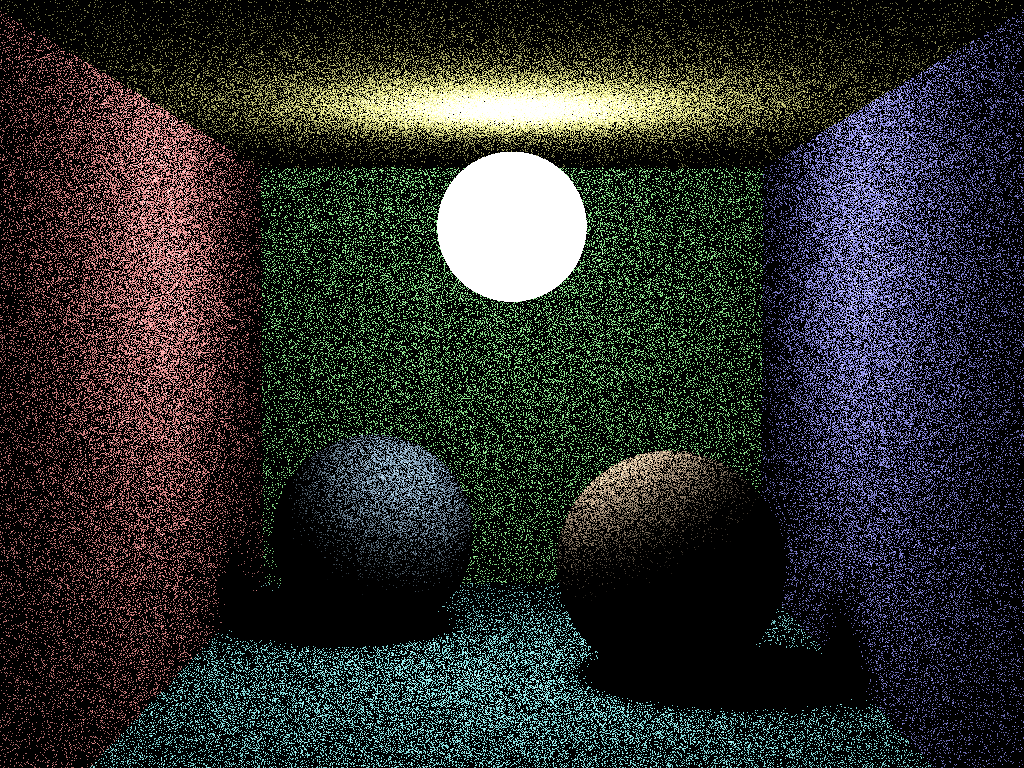
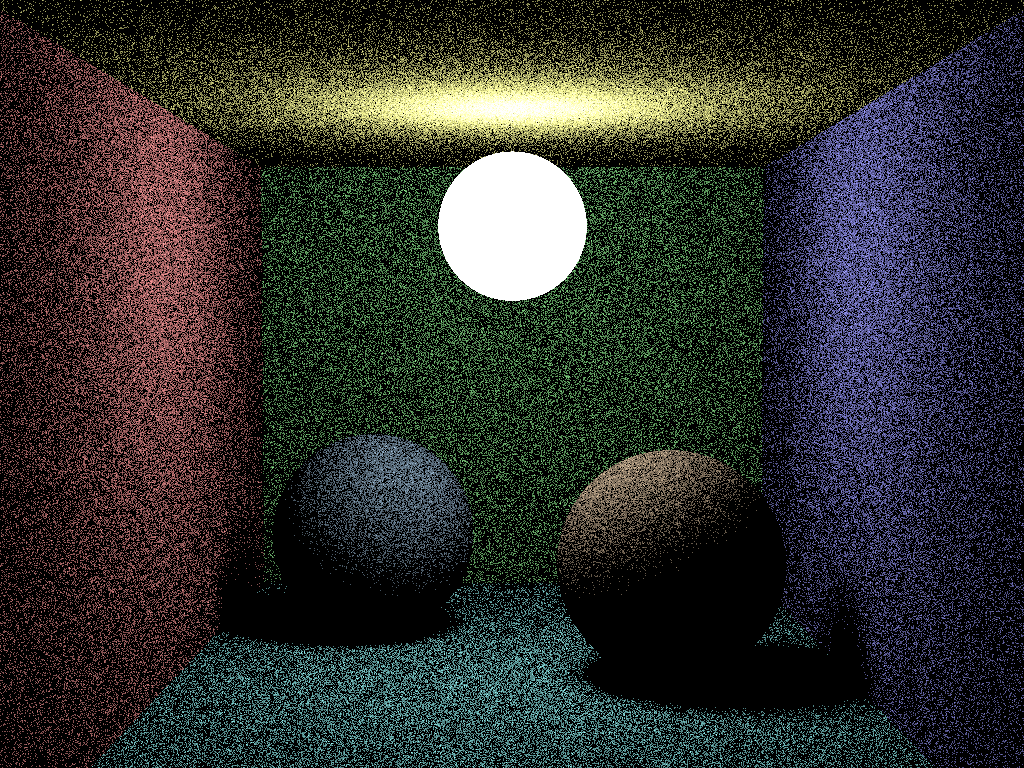
tarea 2 aceptada

diff --git a/doc/tarea2/rt.cpp b/doc/tarea2/rt.cpp
@@ -97,19 +97,18 @@ Color shade(const Ray &r, int depth, int mode)
     {
     case 1:
         target = random_in_hemisphere();
-        p = 0.5 / pi;
+        p = 1.0 / (2.0*pi);
         break;
 
     case 2:
         target = random_cosine_hemisphere(tetha);
-        // double cos_theta = newRay.d.dot(n);
         p = (1.0 / pi) * cos(tetha);
         break;
 
     // case:0
     default:
         target = random_in_sphere();
-        p = 1.0 / (4.0 * pi);
+        p = 1.0/(4.0 * pi);
         break;
     }
 
@@ -127,11 +126,11 @@ Color shade(const Ray &r, int depth, int mode)
 
     double cos_theta = newRay.d.dot(n);
 
-    Color BRDF = obj.c * (1 / pi);
+    Color BRDF = obj.c * (1.0 / pi);
     Color emittance = obj.l;
 
     Color incomingColor = shade(newRay, depth - 1, mode);
-    Color colorValue = emittance + (incomingColor.mult(BRDF) * cos_theta) *(1.0/p);
+    Color colorValue = emittance + (incomingColor.mult(BRDF) * cos_theta) * (1.0/p);
     return colorValue;
 }
 
@@ -142,9 +141,9 @@ int main(int argc, char *argv[])
     // Numero de muestras por pixel.
     const int pixel_samples = 32;
     // Numero de rebotes.
-    const int depth = 3;
+    const int depth = 2;
     // Modo de muestreo. 0 para esfera unitaria, 1 para esfera hemisferica, 2 para coseno hemisferica
-    const int mode = 2;
+    const int mode = 1;
 
     // fija la posicion de la camara y la dirección en que mira
     Ray camera(Point(0, 11.2, 214), Vector(0, -0.042612, -1).normalize());
@@ -166,7 +165,7 @@ int main(int argc, char *argv[])
         {
             // recorre todos los pixeles de la imagen
             fprintf(stderr, "\r%5.2f%%", 100. * y / (h - 1));
-
+            // ciclo de muestreo
             for (int x = 0; x < w; x++)
             {
                 int idx = (h - y - 1) * w + x; // index en 1D para una imagen 2D x,y son invertidos
@@ -176,9 +175,10 @@ int main(int argc, char *argv[])
                 for (int i = 0; i < pixel_samples; i++)
                 {
                     // computar el color del pixel para el punto que intersectó el rayo desde la camara
-                    pixelValue = pixelValue + shade(Ray(camera.o, cameraRayDir.normalize()),depth,mode);
+                    pixelValue = pixelValue + shade(Ray(camera.o, cameraRayDir.normalize()), depth, mode);
                 }
-                pixelValue = pixelValue * (1.0/pixel_samples);
+                // se divide por el numero de muestras.
+                pixelValue = pixelValue * (1.0 / pixel_samples);
                 // limitar los tres valores de color del pixel a [0,1]
                 pixelColors[idx] = Color(clamp(pixelValue.x), clamp(pixelValue.y), clamp(pixelValue.z));
             }

diff --git a/doc/tarea2/utils.h b/doc/tarea2/utils.h
@@ -51,7 +51,7 @@ void coordinateSystem(const Vector &n, Vector &s, Vector &t)
 // Retorna real aleatorio en el rango  [0,1).
 inline double random_double()
 {
-    return rand() / (RAND_MAX + 1.0);
+    return drand48();
 }
 
 // Retorna real aleatorio en el rango [min,max).
@@ -63,12 +63,16 @@ inline double random_double(double min, double max)
 // Retorna un vector aleatorio en una esfera unitaria.
 inline Vector random_in_sphere()
 {
-    auto r1 = random_double();
-    auto r2 = random_double();
+    double r1 = random_double();
+    double r2 = random_double();
 
-    auto x = cos(2 * pi * r1) * 2 * sqrt(r2 * (1 - r2));
-    auto y = sin(2 * pi * r1) * 2 * sqrt(r2 * (1 - r2));
-    auto z = 1 - 2 * r2;
+    double theta = acos(1.0-(2.0*r1));
+    double phi = 2.0*pi*r2;
+
+    double x = cos(phi)*sin(theta);
+    double y = sin(phi) *sin(theta);
+    // auto z = cos(theta);
+    double z = 1.0-2.0*r1;
 
     return Vector(x, y, z);
 }

diff --git a/doc/tarea2/testrnd.cpp b/doc/tarea2/testrnd.cpp
@@ -1,0 +1,38 @@
+
+#include <math.h>
+#include <iostream>
+#include <stdlib.h>
+#include <stdio.h>
+#include <random>
+
+using namespace std;
+
+int main(int argc, char const *argv[])
+{
+    unsigned int seed = 95;
+    std::mt19937 gen(seed);
+
+    FILE *f = fopen("RandomTests.txt", "w");
+
+    // std::random_device rd;
+    // std::mt19937 gen(rd());
+
+    std::uniform_real_distribution<double> dis(0.0, 1.0);
+
+    for (size_t i = 0; i < 10000; i++)
+    {
+        double a  = rand() / (RAND_MAX + 1.0);
+        // double a = drand48();
+        // double a = rand() / (32767 + 1.0);
+        // double a  = rand();
+
+        // double a = dis(gen);
+        fprintf(f, "%g \n",a);
+    }
+
+    fclose(f);
+
+    return 0;
+}
+
+
